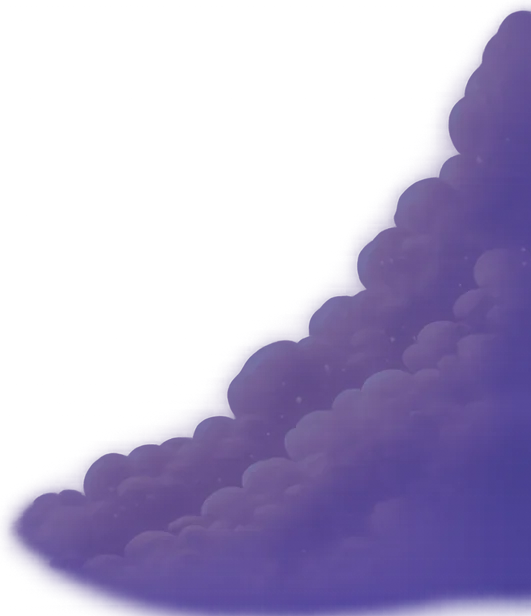
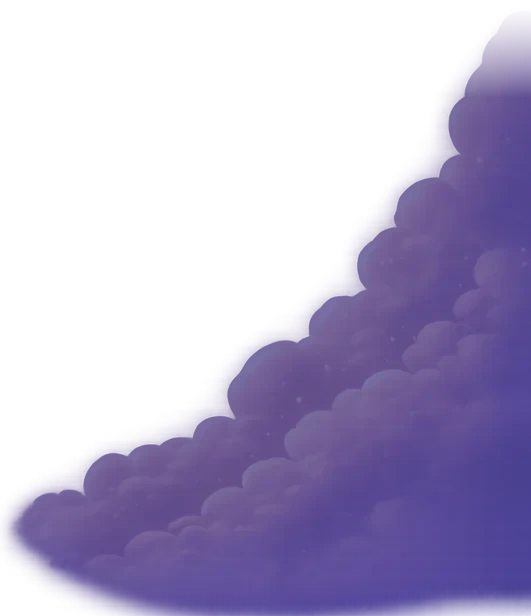
fix(catalogue): fade out the section as it last looked, not as it first appeared
The cross-fade kept a snapshot of each section from the moment it was
swapped in and showed that snapshot while fading out, so tapping a tab
visibly "refreshed" the page -- stories vanished, the scroll jumped --
before the new section arrived. The outgoing section is now captured at
the moment of the switch from the latest render, held steady through
any parent re-renders mid-fade, and both trees are keyed by section so
the incoming one starts fresh.

The dusk cloud banks also gain a feathered far edge: flipped over the
pages below, their cut-off image edge had become a hard purple line.

Changed region(s): [[0.8738, 0.0, 1.0, 0.1542]]

diff --git a/grow-with-freya/components/child-ui/section-crossfade.tsx b/grow-with-freya/components/child-ui/section-crossfade.tsx
@@ -1,4 +1,4 @@
-import React, { ReactNode, useEffect, useRef, useState } from 'react';
+import React, { Fragment, ReactNode, useEffect, useRef, useState } from 'react';
 import { StyleSheet } from 'react-native';
 import Animated, { useSharedValue, useAnimatedStyle, withTiming, Easing } from 'react-native-reanimated';
 
@@ -14,21 +14,25 @@ interface SectionCrossfadeProps {
   testID?: string;
 }
 
-interface Shown {
+interface Outgoing {
   key: string;
   node: ReactNode;
 }
 
 export function SectionCrossfade({ sectionKey, children, testID = 'section-crossfade' }: SectionCrossfadeProps) {
-  const [shown, setShown] = useState<Shown>({ key: sectionKey, node: children });
+  const [shownKey, setShownKey] = useState(sectionKey);
   const latest = useRef<ReactNode>(children);
+  const outgoing = useRef<Outgoing | null>(null);
   const opacity = useSharedValue(1);
   const lift = useSharedValue(0);
-  const settled = shown.key === sectionKey;
+  const settled = shownKey === sectionKey;
 
-  useEffect(() => {
+  if (settled) {
     latest.current = children;
-  });
+    outgoing.current = null;
+  } else if (!outgoing.current || outgoing.current.key !== shownKey) {
+    outgoing.current = { key: shownKey, node: latest.current };
+  }
 
   useEffect(() => {
     if (settled) {
@@ -37,7 +41,7 @@ export function SectionCrossfade({ sectionKey, children, testID = 'section-cross
     opacity.value = withTiming(0, { duration: SECTION_CROSSFADE.outMs, easing: Easing.in(Easing.quad) });
     lift.value = withTiming(-SECTION_CROSSFADE.lift, { duration: SECTION_CROSSFADE.outMs, easing: Easing.in(Easing.quad) });
     const swap = setTimeout(() => {
-      setShown({ key: sectionKey, node: latest.current });
+      setShownKey(sectionKey);
       lift.value = SECTION_CROSSFADE.lift;
       opacity.value = withTiming(1, { duration: SECTION_CROSSFADE.inMs, easing: Easing.out(Easing.cubic) });
       lift.value = withTiming(0, { duration: SECTION_CROSSFADE.inMs, easing: Easing.out(Easing.cubic) });
@@ -53,7 +57,11 @@ export function SectionCrossfade({ sectionKey, children, testID = 'section-cross
 
   return (
     <Animated.View testID={testID} style={[styles.fill, style]} pointerEvents={settled ? 'auto' : 'none'}>
-      {settled ? children : shown.node}
+      {settled ? (
+        <Fragment key={sectionKey}>{children}</Fragment>
+      ) : (
+        <Fragment key={outgoing.current?.key}>{outgoing.current?.node}</Fragment>
+      )}
     </Animated.View>
   );
 }

diff --git a/grow-with-freya/__tests__/components/child-ui/section-crossfade.test.tsx b/grow-with-freya/__tests__/components/child-ui/section-crossfade.test.tsx
@@ -117,6 +117,56 @@ describe('SectionCrossfade', () => {
     expect(underTest).toEqual(['Bedtime Stories']);
   });
 
+  it('should fade out the section as it last looked, not as it first appeared', () => {
+    const view = render(
+      <SectionCrossfade sectionKey="home">
+        <Text>Stories</Text>
+      </SectionCrossfade>
+    );
+    view.rerender(
+      <SectionCrossfade sectionKey="home">
+        <Text>Bedtime Stories</Text>
+      </SectionCrossfade>
+    );
+
+    view.rerender(
+      <SectionCrossfade sectionKey="progress">
+        <Text>Progress</Text>
+      </SectionCrossfade>
+    );
+
+    const underTest = texts(view);
+
+    expect(underTest).toEqual(['Bedtime Stories']);
+  });
+
+  it('should keep the outgoing section steady even if the parent re-renders mid-fade', () => {
+    const view = render(
+      <SectionCrossfade sectionKey="home">
+        <Text>Stories</Text>
+      </SectionCrossfade>
+    );
+    view.rerender(
+      <SectionCrossfade sectionKey="progress">
+        <Text>Progress</Text>
+      </SectionCrossfade>
+    );
+
+    view.rerender(
+      <SectionCrossfade sectionKey="progress">
+        <Text>Progress with badges</Text>
+      </SectionCrossfade>
+    );
+
+    expect(texts(view)).toEqual(['Stories']);
+
+    act(() => {
+      jest.advanceTimersByTime(SECTION_CROSSFADE.outMs);
+    });
+
+    expect(texts(view)).toEqual(['Progress with badges']);
+  });
+
   it('should land on the last section asked for when taps come quickly', () => {
     const view = render(
       <SectionCrossfade sectionKey="home">
